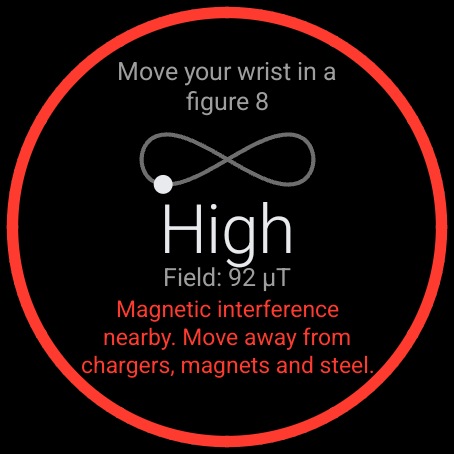
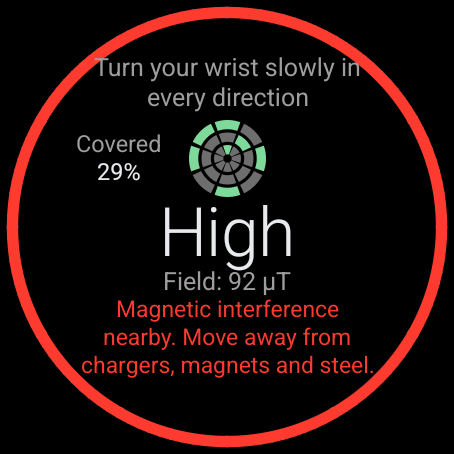
Calibration: the ring a little smaller and higher and the level word higher, so at the largest font the g of High stays clear of the field line; pictures retaken on both sizes, both font sizes
Claude-Session: https://claude.ai/code/session_01KAiVD4eVXLN9qRyssXtjz6

Changed region(s): [[0.1542, 0.1233, 0.8018, 0.6476], [0.5859, 0.4626, 0.6476, 0.5242], [0.37, 0.4934, 0.4317, 0.5242]]

diff --git a/app/src/main/java/com/infinite8looper/compass/ui/CalibrationScreen.kt b/app/src/main/java/com/infinite8looper/compass/ui/CalibrationScreen.kt
@@ -235,12 +235,12 @@ private const val GUIDE_TEXT_BOTTOM = -0.50f
 private const val GUIDE_TEXT_ROOM = 0.30f
 private const val GUIDE_WIDTH = 1.2f
 /** The ring of directions covered: its middle and its outer radius. */
-private const val RING_Y = -0.29f
-private const val RING_RADIUS = 0.18f
+private const val RING_Y = -0.305f
+private const val RING_RADIUS = 0.17f
 /** The words either side of the ring: how far their middles are from the screen's middle, and their width. */
 private const val BESIDE_X = 0.48f
 private const val BESIDE_WIDTH = 0.5f
-private const val WORD_Y = 0.035f
+private const val WORD_Y = 0.02f
 private const val FIELD_Y = 0.24f
 private const val WARNING_Y = 0.49f
 private const val WARNING_WIDTH = 1.3f

diff --git a/docs/screenshots/README.md b/docs/screenshots/README.md
@@ -119,8 +119,8 @@ The system's font scale set to 1.24, the largest step of the Wear OS font size s
 | Settings, further down still | `font-largest-settings-end` | scrolled |
 | Waypoints with the `Drop crumb` row | `font-largest-waypoints` | a second Back, the list scrolled up by one row |
 | Edit, a name on two lines | `font-largest-edit` | a long press on `Trailhead parking lot north` |
-| Calibration (small: 2026-10-15, v3 Task 6) | `font-largest-calibration` | `Calibrate` tapped, the same six fields set as in `calibrate` |
-| Calibration with interference (small: 2026-10-15) | `font-largest-calibration-interference` | `adb emu sensor set magnetic-field 0:80:-45` |
+| Calibration (2026-10-15, v3 Task 6) | `font-largest-calibration` | `Calibrate` tapped, the same six fields set as in `calibrate` |
+| Calibration with interference (2026-10-15) | `font-largest-calibration-interference` | `adb emu sensor set magnetic-field 0:80:-45` |
 | The question before backups are turned off | `font-largest-backup-off-question` | `Back up waypoints` tapped |
 
 ## The three screens
